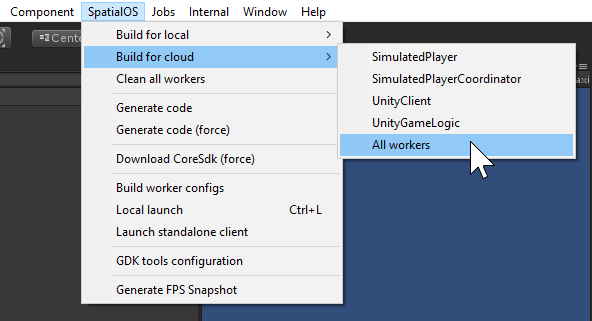
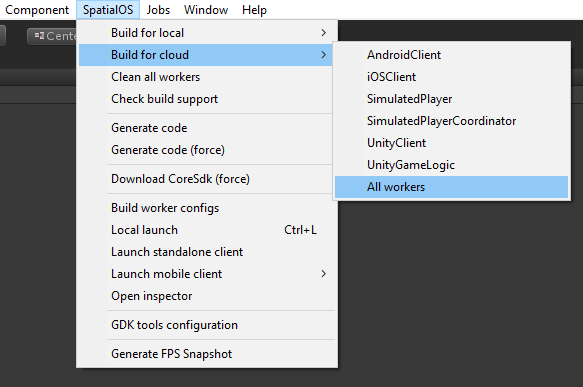
Added Android and iOS support mentions. Edited screenshots and removed HDRP bug advice

diff --git a/docs/content/get-started/get-started.md b/docs/content/get-started/get-started.md
@@ -4,17 +4,26 @@ Get started with SpatialOS for Unity by launching a cloud deployment of our FPS 
 
 <iframe width="560" height="315" src="https://www.youtube.com/embed/6PNDBYtIimw?autoplay=0&rel=0" frameborder="0"  allowfullscreen, style="; float: right; margin: 10px 10px 30px 30px; " ></iframe>
 
-The video on this page runs you through setting up and deploying the FPS Starter Project, following the Get Started section of this manual. <br/>
+### Get started video
+Found out whats inlvolved in getting started with our **Get started with SpatialOS for Unity walk-through youtube video**, based on our Get Started guide (15-minute watch). <br/>
+
+### Get started guide
+
+If you're ready to get started, the Get started guide takes you through setting up the GDK and launching the FPS Starter Project. <br/><br/>
+
+<br/>
 
 Once you have completed this introduction, you are then ready to learn how to build your own features. The [tutorial for adding Health Pickups]({{urlRoot}}/projects/fps/tutorial) introduces you to this development experience.
 
 We recommend starting with the FPS Starter Project by going to the next step: [Set up]({{urlRoot}}/content/get-started/set-up.md), but you can get going with the [Blank Starter Project]({{urlRoot}}/projects/blank/overview) if you prefer this route.
-<br/><br/><br/>
+<br/>
 
-> **Note:** Whichever route you choose, you need basic proficiency in [programming in Unity (Unity documentation)](https://unity3d.com/programming-in-unity), version control systems (such as [Git (github.io)](https://try.github.io/)), and [command line interfaces (djangogirls.org)](https://tutorial.djangogirls.org/en/intro_to_command_line/) to use the SpatialOS GDK for Unity.
+> **Note:** Whichever route you choose, you need basic proficiency in [programming in Unity](https://unity3d.com/programming-in-unity), version control systems (such as [Git](https://try.github.io/)), and [command line interfaces](https://tutorial.djangogirls.org/en/intro_to_command_line/) to use the SpatialOS GDK for Unity.
+
+#### Next: [Set up]({{urlRoot}}/content/get-started/set-up.md)
 
 ![Instant action in the FPS Starter Project]({{assetRoot}}assets/fps/headline.png)
 
-#### Next: [Set up]({{urlRoot}}/content/get-started/set-up.md)
+
 
 

diff --git a/docs/content/get-started/set-up.md b/docs/content/get-started/set-up.md
@@ -51,7 +51,7 @@ Ensure you install this exact version as other Unity versions may not work with 
 
 **Step 5.** Install Git
 
-The SpacialOS GDK for Unity source code is hosted on GitHub. You need to download and install  [Git](https://git-scm.com/downloads) or [GitHub Desktop](https://desktop.github.com/) in order to clone the GDK repositories. 
+The SpatialOS GDK for Unity source code is hosted on GitHub. You need to download and install  [Git](https://git-scm.com/downloads) or [GitHub Desktop](https://desktop.github.com/) in order to clone the GDK repositories. 
 
 **Step 6.** Restart your machine.
 
@@ -113,7 +113,7 @@ Ensure you install this exact version as other Unity versions may not work with 
 
 **Step 5.** Install Git
 
-The SpacialOS GDK for Unity source code is hosted on GitHub. You need to download and install  [Git](https://git-scm.com/downloads) or [GitHub Desktop](https://desktop.github.com/) in order to clone the GDK repositories. 
+The SpatialOS GDK for Unity source code is hosted on GitHub. You need to download and install  [Git](https://git-scm.com/downloads) or [GitHub Desktop](https://desktop.github.com/) in order to clone the GDK repositories. 
 
 **Step 6.** Restart your machine.
 
@@ -137,6 +137,10 @@ Once you have installed [Rider](https://www.jetbrains.com/rider/), install the [
 - You need **Mac** build support if you are developing on a Windows PC and want to share your game with Mac users.<br/>
 - You need **Windows** build support if you are developing on a Mac and want to share your game with Windows PC users. <br/>
 - Unity gives you build support for your development machine (Windows or Mac) by default.
+
+#### Android and iOS support
+
+Mobile support is in pre-alpha. If you are developing a game for Android or iOS, refer to our GDK for Unity [mobile support documentation]({{urlRoot}}/content//mobile/overview)
 
 #### Need some help?
 

diff --git a/docs/content/get-started/open-project.md b/docs/content/get-started/open-project.md
@@ -4,20 +4,7 @@ Launch the Unity Editor. It should automatically detect the project but if it do
 
 >**TIP:** The first time you open the Starter Project in your Unity Editor, It takes about 10 minutes; it's much quicker to open after this. (While you are waiting, you could look at our [Games Blog](https://improbable.io/games/blog).)
 
-**Before you start, apply these two quick Unity bug fixes:**
-
-#### Shaders
-There is a [known issue]({{urlRoot}}/known-issues) in the preview version of the [High Definition Render Pipeline](https://blogs.unity3d.com/2018/03/16/the-high-definition-render-pipeline-focused-on-visual-quality/), where shaders do not fully compile and appear visually darker than intended.
-
-There is a quick fix however:
-
-1. In your Unity Editor, open the FPS Starter Project; it's located in `workers/unity`.
-1. In your Editor's Project window, navigate to **Assets** > **Fps** > **Art** > **Materials**.
-1. Right-click on the `Source_Shaders` directory and select **Reimport**.
-<br/>
-<br/>
-![]({{assetRoot}}assets/shader-fix.png)<br/>
-_Unity Editor menu to reimport shaders_
+**Before you start, apply this quick Unity bug fix:**
 
 #### Bake Navmesh
 There is a [known issue]({{urlRoot}}/known-issues) in the Unity Editor regarding importing NavMeshes. The Unity Editor does not import the NavMesh for the `FPS-SimulatedPlayerCoordinator` correctly when you open the project for the first time. To fix this, you need to rebake the NavMesh for this Scene. To do this:

diff --git a/docs/content/initial-set-up.md b/docs/content/initial-set-up.md
@@ -127,6 +127,10 @@ Once you have installed [Rider](https://www.jetbrains.com/rider/), install the [
 - You need **Windows** build support if you are developing on a Mac and want to share your game with Windows PC users. <br/>
 - Unity gives you build support for your development machine (Windows or Mac) by default.
 
+#### Android and iOS support
+
+Mobile support is in pre-alpha. If you are developing a game for Android or iOS, refer to our GDK for Unity [mobile support documentation]({{urlRoot}}/content//mobile/overview)
+
 #### Need some help?
 
 If you need help using the GDK, come and talk to us about the software and the documentation via:

diff --git a/docs/setup-and-installing.md b/docs/setup-and-installing.md
@@ -131,6 +131,10 @@ Once you have installed [Rider](https://www.jetbrains.com/rider/), install the [
 - You need **Windows** build support if you are developing on a Mac and want to share your game with Windows PC users. <br/>
 - Unity gives you build support for your development machine (Windows or Mac) by default.
 
+#### Android and iOS support
+
+Mobile support is in pre-alpha. If you are developing a game for Android or iOS, refer to our GDK for Unity [mobile support documentation]({{urlRoot}}/content//mobile/overview)
+
 #### Need some help?
 
 If you need help using the GDK, come and talk to us about the software and the documentation via:
